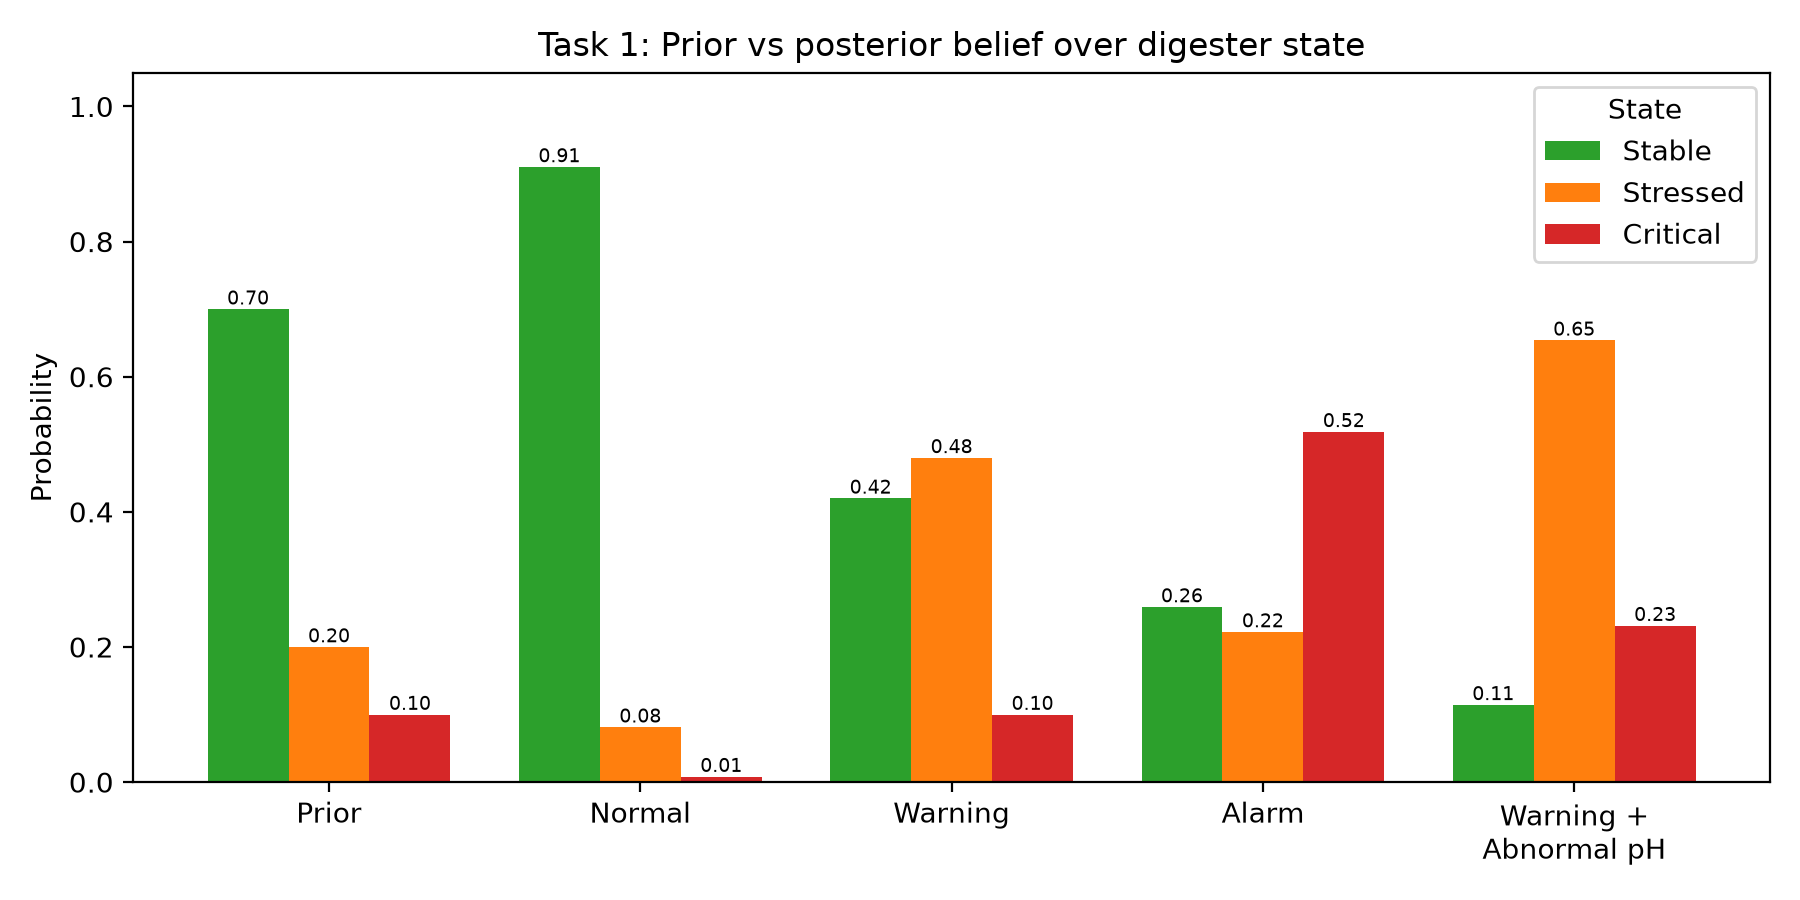
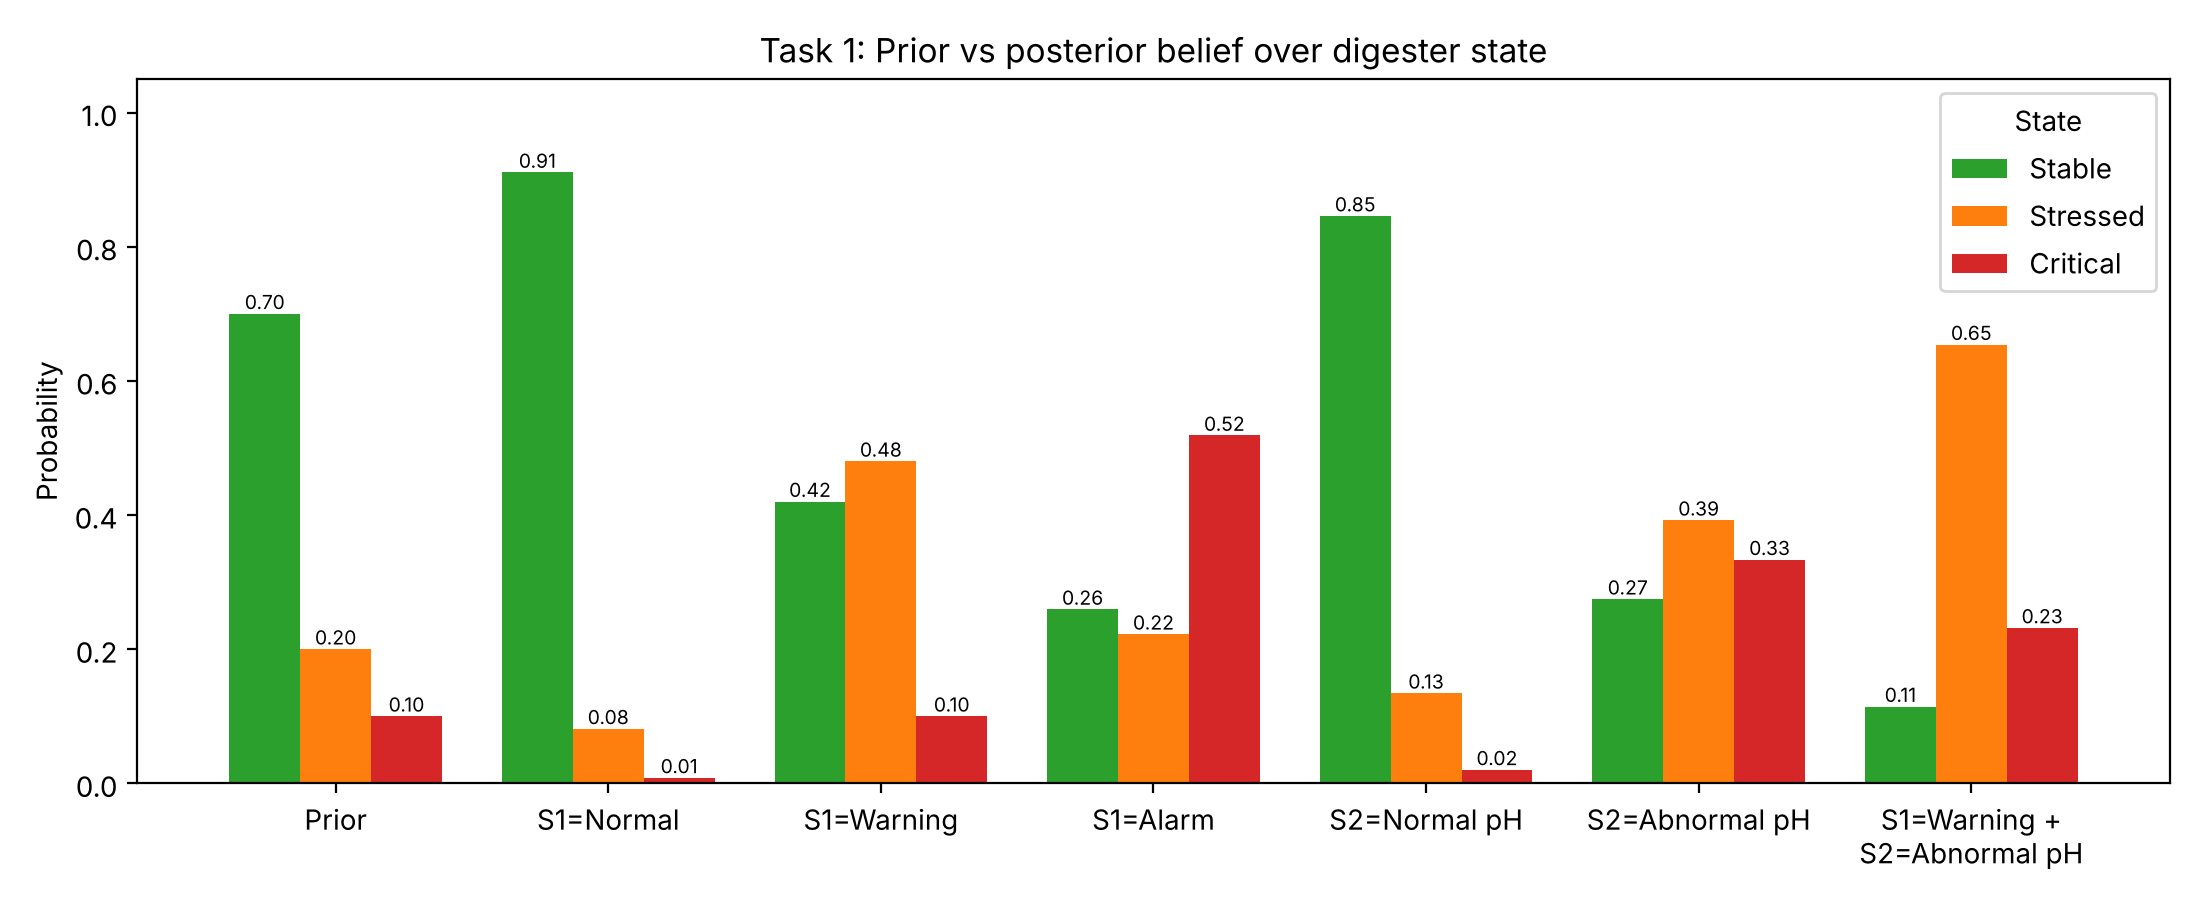
Add posteriors for the pH sensor on its own in Task 1

Changed region(s): [[0.0, 0.0311, 0.9956, 0.9644], [0.0311, 0.2489, 0.0933, 0.3111], [0.2489, 0.9022, 0.3111, 0.9333]]

diff --git a/main.py b/main.py
@@ -9,7 +9,7 @@ import pandas as pd
 
 from src import report_figures
 from src.biogas_model import (
-    ACTIONS, OBS_S1, PRIOR, SENSOR1, STATES, TRANSITION, UTILITY,
+    ACTIONS, OBS_S1, OBS_S2, PRIOR, SENSOR1, STATES, TRANSITION, UTILITY,
     bayes_posterior, hmm_filter, recommend_action,
 )
 
@@ -41,6 +41,7 @@ def task1():
     print("TASK 1 - Bayesian inference")
     print("=" * 70)
     cases = [("S1=" + o, {"S1": o}) for o in OBS_S1]
+    cases += [("S2=" + o, {"S2": o}) for o in OBS_S2]
     cases.append(("S1=Warning, S2=Abnormal pH", {"S1": "Warning", "S2": "Abnormal pH"}))
 
     rows = []
@@ -68,8 +69,8 @@ def task1():
     df.to_csv(TABLES / "task1_bayes_posteriors.csv", index=False, float_format="%.6f")
 
     # Bar chart comparing posteriors
-    fig, ax = plt.subplots(figsize=(9, 4.5))
-    labels = ["Prior"] + [r["evidence"].replace("S1=", "").replace(", S2=", " +\n") for r in rows]
+    fig, ax = plt.subplots(figsize=(11, 4.5))
+    labels = ["Prior"] + [r["evidence"].replace(", ", " +\n") for r in rows]
     data = np.vstack([PRIOR] + [[r[f"P({s})"] for s in STATES] for r in rows])
     x = np.arange(len(labels))
     width = 0.26
